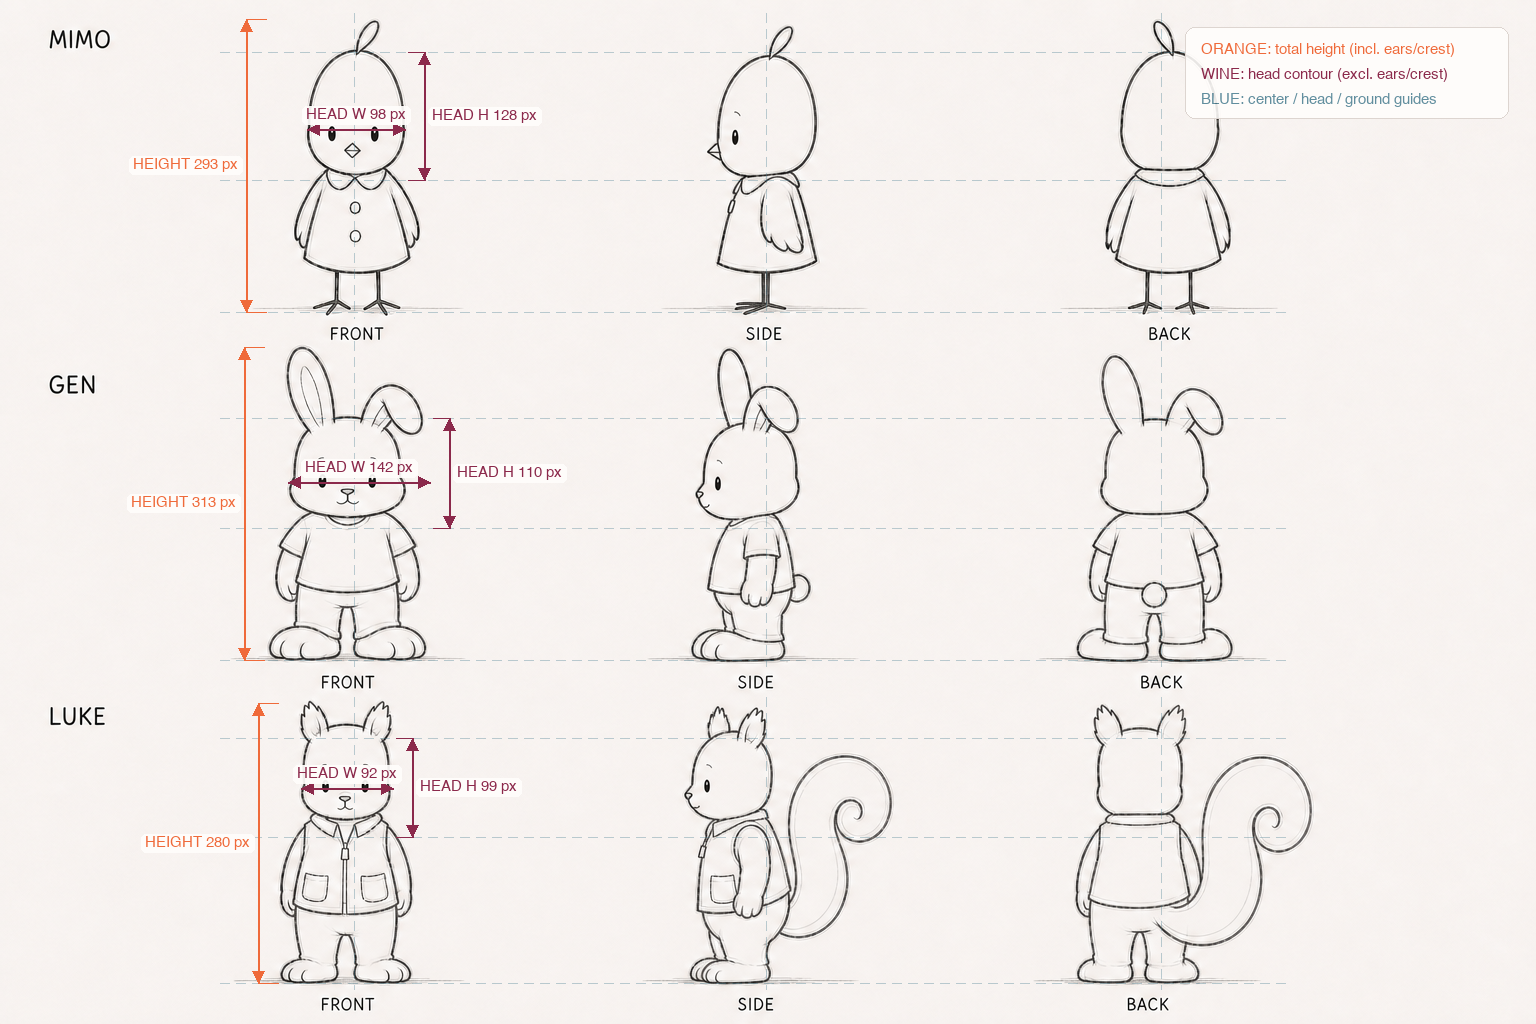
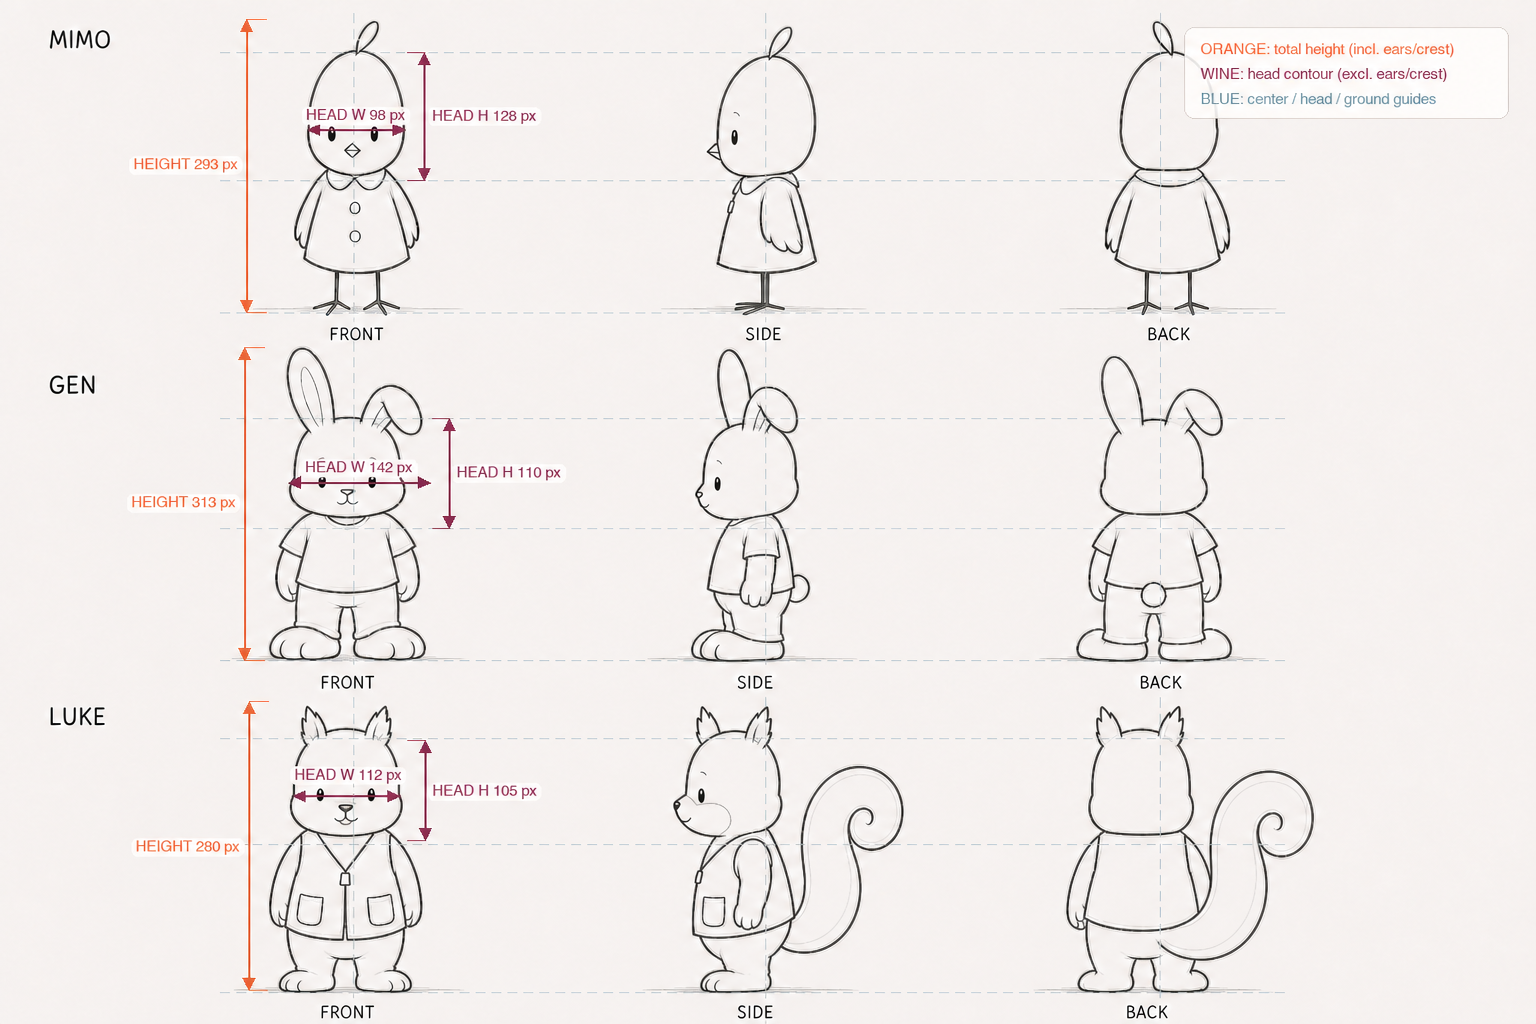
Finalize Luke turnaround and acting references

diff --git a/planning/style-studies/output-process.html b/planning/style-studies/output-process.html
@@ -74,7 +74,7 @@
   <header>
     <h1>キャラクター造形の検討記録</h1>
     <p>番号は完成度ではなく、判断を重ねた順番です。別系統の画風比較と現在の造形本流を分け、骨格、関わり方、識別性、誇張、配色の順に、何を残して何を見直したかを追えるようにしています。</p>
-    <div class="flow" aria-label="制作工程"><div>無難な造形を確認</div><div>代表ポーズをFIX</div><div>頭部を特徴づける</div><div>体型差を保留</div><div>三面図を固定</div><div>色を決める</div></div>
+    <div class="flow" aria-label="制作工程"><div>無難な造形を確認</div><div>代表ポーズをFIX</div><div>頭部を特徴づける</div><div>C案の身体をFIX</div><div>頭部と配色をFIX</div><div>三面図・px基準をFIX</div></div>
   </header>
   <aside class="decision-summary" aria-labelledby="decision-title">
     <div class="decision-summary-inner">
@@ -82,14 +82,15 @@
         <h2 id="decision-title">意思決定</h2>
         <ol>
           <li><span class="decision-state">決定</span>無難な造形は親しみやすい一方で記憶に残りにくいため、頭の輪郭、比率、頬、顎を三人それぞれに特徴づける。</li>
-          <li><span class="decision-state hold">保留</span>年齢・性別による体型差も検討したが、可愛さが弱くなったため身体への直接反映はいったん戻し、After頭部と共通の柔らかい素体を採用する。</li>
+          <li><span class="decision-state">FIX</span>年齢・性別による大きな体型差は直接反映せず、頭部を保ちながら胴体と手足を小さくしたC案の柔らかい素体を採用する。</li>
           <li><span class="decision-state">FIX</span>代表ポーズによって三人の役割と感情を伝える方針は確定する。</li>
-          <li><span class="decision-state">FIX</span>After頭部とC案の身体比率を使い、正面・側面・背面のニュートラル三面図と、全高・頭部寸法・中心軸・接地線のpx基準を固定する。</li>
+          <li><span class="decision-state">FIX</span>Lukeは柔らかい縦長頭部、豆形の白い口元、#FF511Bの毛色、グレージュのベストを最終造形とする。</li>
+          <li><span class="decision-state">FIX</span>三人の正面・側面・背面を無彩色の線画で統一し、Lukeの白い口元、耳、ベスト、尻尾の接続とpx寸法を更新する。</li>
         </ol>
       </div>
       <div class="decision-panel todo-panel">
         <h2>TODO｜次の制作</h2>
-        <p>三面図とpx基準をもとに、正面・側面・背面で服、顔パーツ、耳・翼・尻尾の接続を微調整し、最終配色を固定する。</p>
+        <p>更新した三面図とpx基準をもとに、32px前後の顔＋肩表示で三人の識別性を確認する。あわせてLukeの8動作で頭部、白面、耳、ベスト、尻尾が基準造形から崩れていないか最終確認する。</p>
       </div>
     </div>
   </aside>
@@ -120,7 +121,7 @@
     ];
     const specs = {
       kotori:{ label:"Mimo先生｜小鳥", desc:"聞く・返す・待つ。現在の代表候補は「聞く」。", files:["v1","v1","v2","v1","v1","v1","v1","v2","v3"] },
-      risu:{ label:"Luke先生｜リス", desc:"観察・試す・選び直す。現在の代表候補は「ひらめく」。STEP 01の第3案を固定造形とし、青＝外形、橙＝耳、赤紫＝顔パーツ位置のガイドを重ねている。", files:["v1","v1","v2","v1","v1","v1","v1","v2","v3"], overrides:{0:"outputs/characters/risu/01-risu-character-design-step-1-ratio-lock-guide-v1.png"} },
+      risu:{ label:"Luke先生｜リス", desc:"観察・試す・選び直す。代表ポーズは「ひらめく」。初期の縦長頭部を見直し、現在は柔らかい縦長頭部、豆形の白い口元、#FF511Bの毛色、グレージュのベストを固定造形としている。", files:["v1","v1","v2","v1","v1","v1","v1","v2","v3"], overrides:{0:"outputs/characters/risu/01-risu-character-design-step-1-ratio-lock-guide-v1.png"} },
       usagi:{ label:"Gen先生｜うさぎ", desc:"誘う・気づく・合わせる。現在の代表候補は「誘う」。", files:["v1","v1","v2","v1","v1","v1","v1","v2","v3"] }
     };
     const sections = [];
@@ -150,11 +151,11 @@
       {n:9,title:"選定ポーズを共通骨格に揃えて配色する",note:"STEP 05の推奨骨格へ頭身・胴体幅・手足の大きさを合わせ、Mimo＝黄、Luke＝橙、Gen＝白とワイン紫を適用。Lukeは鼻と口の周囲だけに白いマズルを加え、顔の識別性も比較している。",file:"outputs/groups/09-main-three-selected-emotional-poses-color-study-v2.png",status:"配色比較",statusClass:"hold"}
     ]});
     sections.push({key:"head-shape",label:"頭部特徴あり",desc:"無難な共通頭部は記憶に残りにくいため、身体演技を維持したまま頭部だけを役割に合わせて特徴づけた比較。左が従来の丸い共通頭部、右が現在の推奨頭部。頭の縦横比、頬、顎、目の位置が人格の読み取りへどう影響するかを確認する。",compare:true,items:[
-      {stepLabel:"COLOR LINEUP",title:"頭部特徴と現在の配色を三人で確認する",note:"Mimoの落ち着いた黄、Genの白とワイン、Lukeの柔らかい頭部・豆形の白い口元・#FF511Bの毛色を一枚に統合。三人を同じ接地線へ並べ、頭部の識別性と色面の強さを確認する現在の比較案。",file:"outputs/groups/26-main-three-head-color-lineup-ff511b-v1.png",status:"配色・頭部比較",statusClass:"current"},
-      {n:12,title:"三人の基準造形を三面図とpx寸法で確定する",note:"Mimo、Gen、Lukeをポーズのない正面・側面・背面へ展開。正面図を計測基準に、全高、耳・冠羽を除く頭部の縦横寸法、三方向の中心軸、頭頂・顎・接地位置をpx単位で可視化した。1536×1024上の基準値はMimo＝全高293px・頭98×128px、Gen＝全高313px・頭142×110px、Luke＝全高280px・頭92×99px。",file:"outputs/groups/12-main-three-after-head-neutral-turnaround-measurement-guide-v1.png",status:"三面図・寸法基準FIX",statusClass:"current"},
+      {stepLabel:"COLOR LINEUP",title:"三人の頭部特徴と配色を最終決定する",note:"Mimoの落ち着いた黄、Genの白とワイン、Lukeの柔らかい縦長頭部・豆形の白い口元・#FF511Bの毛色を一枚に統合。三人を同じ接地線へ並べ、造形と配色の両方を最終案として固定した。",file:"outputs/groups/26-main-three-head-color-lineup-ff511b-v1.png",status:"造形・配色FIX",statusClass:"current"},
+      {n:12,title:"三人の三面図とpx寸法を無彩色線画で統一する",note:"Mimo、Gen、Lukeを同じ無彩色の線画、中心軸、頭部ガイド、接地線で統一。Lukeは柔らかい縦長頭部、豆形の口元境界、C案の身体、ベスト、腰から接続する尻尾へ更新した。基準値はMimo＝全高293px・頭98×128px、Gen＝全高313px・頭142×110px、Luke＝全高280px・頭112×105px。",file:"outputs/groups/12-main-three-after-head-neutral-turnaround-measurement-guide-v1.png",status:"三面図・px基準FIX",statusClass:"current"},
       {stepLabel:"MIMO",title:"Mimo先生｜小鳥：丸い小鳥から、静かに受け取る傾聴者へ",beforeFile:"outputs/head-shape-comparison/01-kotori-before-round-head.png",afterFile:"outputs/characters/kotori/10-kotori-listener-emotion-acting-sheet-v1.png",beforeLabel:"正円に近い頭",afterLabel:"縦長の卵形",note:"旧案は親しみやすい一方、幼い小鳥や一般的なマスコットに見えやすい。新案は頬を膨らませず縦方向へ流し、目の大きさを固定。静かに聴き、待つ若い大人の印象を強めた。",points:["縦方向へ伸ばす","頬を足さない","まぶたと傾きで傾聴"]},
       {stepLabel:"GEN",title:"Gen先生｜うさぎ：一般的な丸頭から、安定して伴走する応援者へ",beforeFile:"outputs/head-shape-comparison/02-usagi-before-generic-round-head.png",afterFile:"outputs/characters/usagi/11-usagi-supporter-emotion-acting-sheet-v1.png",beforeLabel:"均一な丸頭",afterLabel:"丸角四角＋低い頬",note:"旧案は動きが明快だが、ポーズごとに頭が円形へ戻りやすい。新案は側面を縦に保ち、目より下の頬を最も広く、顎を短く平らに固定。快活な上半身を支える安心感が生まれた。",points:["側面を縦に保つ","低い頬を最幅にする","短く広い顎で安定"]},
-      {stepLabel:"LUKE",title:"Luke先生｜リス：丸い発明家から、観察する成人の探偵へ",beforeFile:"outputs/head-shape-comparison/03-risu-before-round-head.png",afterFile:"outputs/characters/risu/12-risu-detective-inventor-acting-sheet-v1.png",beforeLabel:"丸い共通頭部",afterLabel:"縦長の豆形＋短い口元",note:"旧案は道具とポーズで役割を説明していたが、顔だけでは幼く見えやすい。新案は頭を縦長にし、目を三人で最小に、頬と口元を控えめにして、観察・比較・考え直す41歳の人格を顔へ移した。",points:["横幅より縦を長く","小さな目を低めに配置","小耳と短い口元を固定"]}
+      {stepLabel:"LUKE",title:"Luke先生｜リス：硬い縦長頭部から、柔らかい観察者へ",beforeFile:"outputs/head-shape-comparison/03-risu-before-round-head.png",afterFile:"outputs/characters/risu/31-risu-final-soft-head-ff511b-v1.png",beforeLabel:"丸い共通頭部",afterLabel:"柔らかい縦長＋豆形の白面",note:"初期の丸頭と、その後の細く硬い縦長頭部を見直した。現在は成人らしい縦長感を残しながら頭頂・側面・頬・顎を滑らかにつなぎ、豆形の白い口元と小さく低い目で、観察・比較・考え直す35歳の人格を固定している。",points:["縦長感と柔らかさを両立","豆形の白面で口元を整理","#FF511Bとグレージュを固定"]}
     ]});
     sections.push({key:"body-shape",label:"年齢・性表現による体型パターン",desc:"色、服、表情の影響を外し、動物別に体型の輪郭を比較した。横軸は子ども・若者・成人・高齢、縦軸は女性的・中性的・男性的な性表現。年齢差を主軸に、子どもの丸く短い身体、若者の細く長い身体、成人の厚み、高齢期の腹部・腰・脚のふくよかさを強調した。頭部は頭部形状 Before / After の推奨After案を適用している。",bodyGrid:true,items:[
       {stepLabel:"現在案",title:"After頭部と8動作の実寸で三人を並べる",note:"年齢・性別による体型差はいったん外し、各8動作シートの代表立ち姿を基準に、頭身だけでなく画像上の表示サイズも再現した。1536×1024の並びではMimo約345px、Gen約460px、Luke約350pxの全高を目安に、全身を均等縮小して同じ接地線へ配置。Mimoは大きく見えたため一段縮小し、内部の頭身と細い身体は維持した。",file:"outputs/body-shape/00-main-three-after-head-cute-body-lineup-v2.png",status:"8動作の実寸へ統一",statusClass:"current"},
@@ -164,7 +165,7 @@
       {type:"note",label:"現在地｜C案を動作へ展開",text:"Mimo 27歳、Gen 26歳、Luke 35歳女性を基準に、頭部100％、胴体82％、腕と脚85％を選定。足先、耳、翼端、尻尾は維持し、胸郭・腹部・骨盤の柔らかな連結も残したまま、次の8ポーズへ展開した。"},
       {stepLabel:"MIMO 27・C",title:"Mimo先生｜C案を8つの傾聴動作へ展開",note:"縦長のAfter頭部を固定し、胴体82％、翼と脚85％、足先と冠羽100％で展開。聞く、身を寄せる、待つ、返す、考える各動作で、コンパクトになっても丸い幼鳥素体へ戻らないよう三つの胴体量感を維持した。",file:"outputs/body-shape/09-kotori-age27-option-c-acting-sheet-v1.png",status:"C案・動作展開",statusClass:"current"},
       {stepLabel:"GEN 26・C",title:"Gen先生｜C案を8つの応援動作へ展開",note:"低い頬が最幅、短く広い平らな顎、やや離れた目を頭部基準として固定。胴体82％に対して腕と脚を約72％、手を80％まで縮め、大きな足は100％で維持。8動作すべてで頭身の小ささが明確に見えるよう再調整した。",file:"outputs/body-shape/10-usagi-age26-option-c-acting-sheet-v3.png",status:"C案・手足再調整",statusClass:"current"},
-      {stepLabel:"LUKE 35・C",title:"Luke先生｜C案を8つの観察・発明動作へ展開",note:"頬を出さない縦横比1.20〜1.25の細い頭、最小で低い目、短く前へ出る口元を固定。胴体82％に対して腕と脚を約72％、手を78％まで縮め、大きな尻尾は100％で維持。道具を使う動作でも手足が長く戻らないよう再調整した。",file:"outputs/body-shape/11-risu-age35-female-option-c-acting-sheet-v3.png",status:"C案・手足再調整",statusClass:"current"},
+      {stepLabel:"LUKE 35・FINAL",title:"Luke先生｜最終造形を8つの観察・発明動作へ展開",note:"C案のコンパクトな身体比率を維持しながら、柔らかい縦長頭部、豆形の白い口元、#FF511B、グレージュのベストを8動作へ反映。観察、しゃがんで調べる、比較する、ひらめく、道具を探す、発見に反応する、試す、選び直す場面でも頭部・白面・尻尾の識別性を保った。",file:"outputs/characters/risu/33-risu-final-soft-head-color-acting-sheet-v1.png",status:"最新版・8動作FIX",statusClass:"current"},
       {type:"note",label:"見送った案｜旧年齢設定とC以前の身体比率",text:"ここからは見送った中間案。旧推奨年齢のGen 39歳・Luke 52歳、C以前のMimo 27歳・Gen 26歳・Luke 35歳の大きな身体比率は、成人の貫禄は出た一方で、身体と手足が硬く見えた。年齢そのものはMimo 27歳のように維持した場合もあるが、素体比率は上のC案へ更新した。"},
       {stepLabel:"旧・推奨年齢",title:"旧設定で三人の年齢差を強く表す",note:"Mimo＝27歳、Gen＝39歳、Luke＝52歳として、胴体幅、腹部、手足の厚み、接地感を段階的に変えた初期の年齢強調案。現在はGen 26歳、Luke 35歳女性へ更新し、身体比率もC案へ移行したため見送った。",file:"outputs/body-shape/00-main-three-recommended-age-body-lineup-v1.png",status:"見送った年齢案",statusClass:"hold"},
       {stepLabel:"MIMO 27",title:"Mimo先生｜選定体型を8つの傾聴動作へ展開",note:"細い雫形の胴体、長く細い脚、高い重心、縦長のAfter頭部を固定。聞く、身を寄せる、待つ、返す、考える各動作で、前屈や着座時にも丸い幼鳥素体へ戻らないかを確認した。",file:"outputs/body-shape/04-kotori-age27-body-acting-sheet-v1.png",status:"見送った身体比率",statusClass:"hold"},
